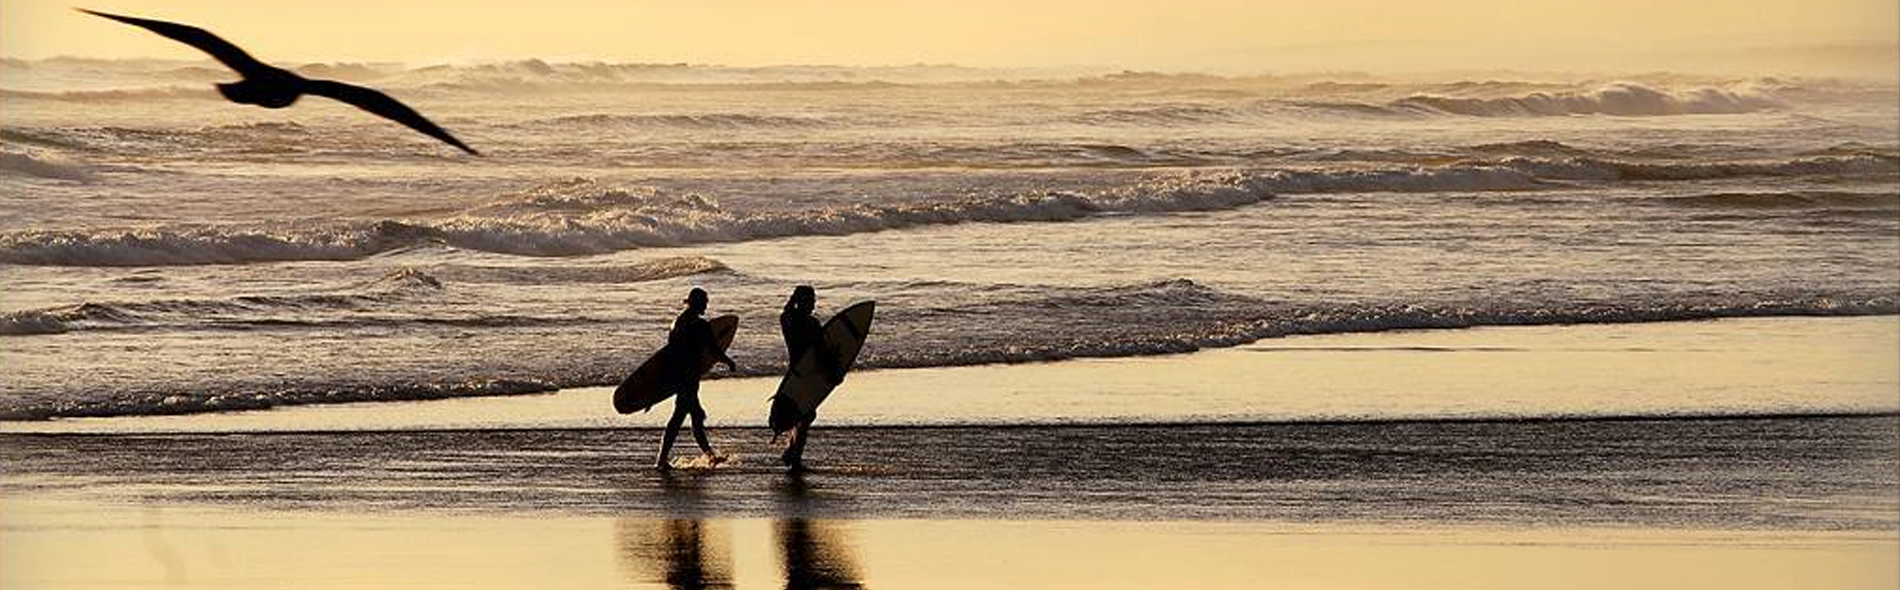
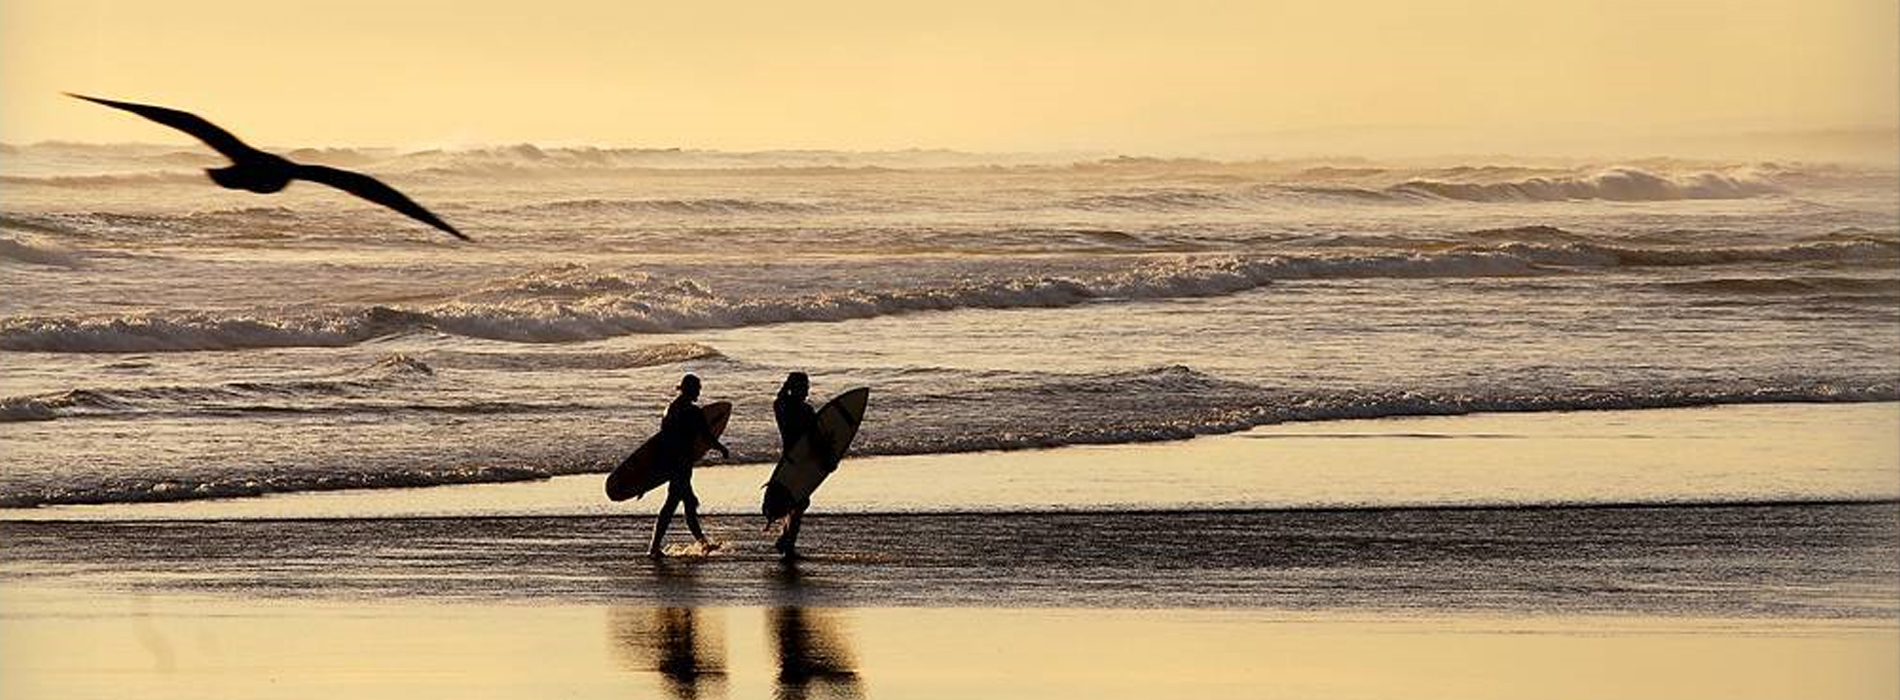
paragraph change

diff --git a/style.css b/style.css
@@ -55,7 +55,7 @@ html {
 }
 
 body { margin: 0;} 
-div#slider { overflow: hidden; max-width: 100%; height: auto; max-height: 80vh; padding-bottom: 105px;}
+div#slider { overflow: hidden; max-width: 100%; height: auto; max-height: 87vh; padding-bottom: 105px;}
 div#slider figure img { width: 20%; float: left; }
 div#slider figure { 
   position: relative;
@@ -86,6 +86,10 @@ footer {
 h1 {
     text-align: center;
     font-size: 3.2em;
+}
+
+h2, p {
+    margin-left: 50px;
 }
 
 *,*:after,*:before{
@@ -277,8 +281,9 @@ img:not(.logo){
     padding-bottom: 30%;
     position:relative;
     height:0;
-    margin: 5px;
     border-style: solid;
+    width: 90%;
+    margin-left: 50px;
 }
 
 .map-responsive iframe {
@@ -296,7 +301,7 @@ img:not(.logo){
 }
 
 header p {
-    margin: 5px;
+    margin-left: 50px;
     font-size: 0.8em;
 }
 
@@ -370,5 +375,9 @@ form textarea {
     margin-left: auto;
     margin-right: auto;
 }       
+    
+.map-responsive {
+    width: 80%;
+}
     
 }

diff --git a/contact.html b/contact.html
@@ -26,7 +26,8 @@
 
   <header>
     <h2>Contact Form</h2>
-    <p>I specialise in senior portraits, weddings, lifestyle and event photography. I look forward to meeting you and discussing your photography needs by filling out your contact details or queries on this form.<p> <br>
+    <p>I specialise in senior portraits, weddings, lifestyle and event photography. I look forward to meeting you <br>
+    and discussing your photography needs by filling out your contact details or queries on this form.<p> <br>
   </header>
   
 <form method="POST" action="https://formspree.io/rogerphotographyprofessional@hotmail.com">

diff --git a/index.html b/index.html
@@ -41,7 +41,7 @@ function myFunction() {
     
 </body>
     
-<footer>
+<footer class= "index">
 <section class="follow">
 <a href="https://www.facebook.com/" target="_blank">
 <img src="images/facebook.png" alt="Facebook"></a>
@@ -54,3 +54,9 @@ function myFunction() {
 </footer>
 
 </html>
+
+<style>
+    footer {
+margin-top: -105px;
+    }
+</style>
